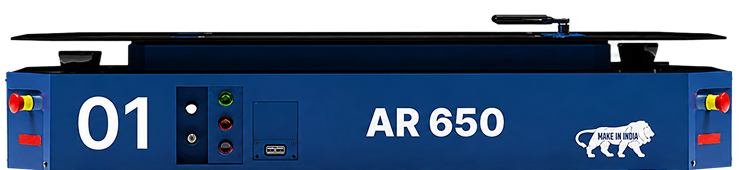
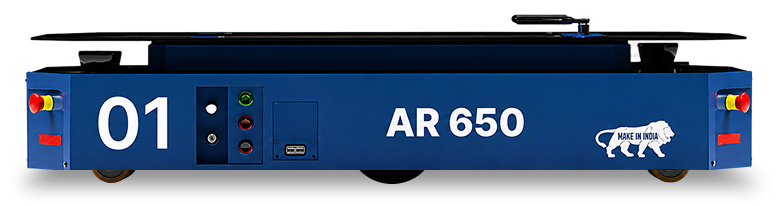
refactor(ui): clean up buttons, accordions and fix states
- Remove hardcoded background colors from ArrowButton instances across all pages and components
- Fix the custom background detection regex for ArrowButton to not match bg variant classes
- Add cursor-pointer to the base ArrowButton styles
- Refactor ProductAccordionRows and ProductFaqAccordion to improve accessibility, toggle logic, and visual styling
- Swap Plus/Minus icons for ChevronDownIcon in the FAQ accordion
- Fix accordion cursor states to show default when active, pointer otherwise
- Add/update the AR650 series product image

diff --git a/app/components/robots/ProductFaqAccordion.tsx b/app/components/robots/ProductFaqAccordion.tsx
@@ -1,14 +1,8 @@
 "use client";
 
 import { useState } from "react";
-import { Minus, Plus } from "lucide-react";
+import { ChevronDownIcon } from "lucide-react";
 import { cn } from "@/lib/utils";
-import {
-  Accordion,
-  AccordionContent,
-  AccordionItem,
-  AccordionTrigger,
-} from "@/components/ui/accordion";
 
 type ProductFaq = {
   question: string;
@@ -16,53 +10,64 @@ type ProductFaq = {
 };
 
 export function ProductFaqAccordion({ items }: { items: ProductFaq[] }) {
-  const [value, setValue] = useState<string[]>(["faq-0"]);
-  const activeValue = value[0] ?? "";
+  const [activeIndex, setActiveIndex] = useState<number>(0);
 
   return (
-    <Accordion
-      value={value}
-      onValueChange={(nextValue) => {
-        setValue(Array.isArray(nextValue) ? nextValue.slice(0, 1) : []);
-      }}
-      className="w-full flex flex-col gap-4"
-    >
+    <div className="w-full flex flex-col gap-4">
       {items.map((item, index) => {
-        const itemValue = `faq-${index}`;
-        const isOpen = activeValue === itemValue;
+        const isOpen = activeIndex === index;
 
         return (
-          <AccordionItem
+          <article
             key={item.question}
-            value={itemValue}
             className={cn(
-              "overflow-hidden border-0 border-transparent transition-colors duration-300 [&:not(:last-child)]:border-b-0",
+              "overflow-hidden border-0 border-transparent transition-colors duration-300",
               isOpen ? "rounded-xl bg-[#f1f1f1]" : "bg-transparent",
             )}
           >
-            <AccordionTrigger className="cursor-pointer items-center gap-4 rounded-xl px-3 py-3 text-left hover:no-underline focus-visible:ring-[#005ead]/25 md:gap-4 md:px-6 md:py-3 **:data-[slot=accordion-trigger-icon]:hidden">
+            <button
+              type="button"
+              onClick={() => {
+                if (activeIndex === index) return;
+                setActiveIndex(index);
+              }}
+              aria-expanded={isOpen}
+              className={cn(
+                "group flex w-full items-center justify-between gap-4 rounded-xl px-3 py-3 text-left outline-none transition hover:no-underline focus-visible:ring-3 focus-visible:ring-[#005ead]/25 md:gap-4 md:px-6 md:py-3",
+                isOpen ? "cursor-default" : "cursor-pointer"
+              )}
+            >
               <span className="text-sm font-semibold leading-5 text-[#3a3a3a] md:text-[18px] md:leading-6">
                 {item.question}
               </span>
-              <span
-                className="ml-auto grid size-6 shrink-0 place-items-center text-[#3a3a3a]"
+              <ChevronDownIcon
                 aria-hidden="true"
-              >
-                {isOpen ? (
-                  <Minus className="size-5" strokeWidth={2} />
-                ) : (
-                  <Plus className="size-5" strokeWidth={2} />
+                className={cn(
+                  "size-5 shrink-0 text-[#3a3a3a] transition-opacity duration-300",
+                  isOpen ? "opacity-0 pointer-events-none" : "opacity-100",
                 )}
-              </span>
-            </AccordionTrigger>
-            <AccordionContent className="px-3 pb-3 md:px-6">
-              <p className="max-w-[760px] pt-2.5 text-[12px] leading-[18px] text-[#222228] md:text-base md:leading-6">
-                {item.answer}
-              </p>
-            </AccordionContent>
-          </AccordionItem>
+                strokeWidth={2}
+              />
+            </button>
+            <div
+              className={cn(
+                "grid transition-[grid-template-rows,opacity] duration-300 ease-out",
+                isOpen
+                  ? "grid-rows-[1fr] opacity-100"
+                  : "grid-rows-[0fr] opacity-0",
+              )}
+            >
+              <div className="overflow-hidden">
+                <div className="px-3 pb-3 md:px-6">
+                  <p className="max-w-[760px] pt-2.5 text-[12px] leading-[18px] text-[#222228] md:text-base md:leading-6">
+                    {item.answer}
+                  </p>
+                </div>
+              </div>
+            </div>
+          </article>
         );
       })}
-    </Accordion>
+    </div>
   );
 }

diff --git a/app/components/product-detail/sections/ProductAccordionRows.tsx b/app/components/product-detail/sections/ProductAccordionRows.tsx
@@ -46,9 +46,15 @@ export function ProductAccordionRows({
           >
             <button
               type="button"
-              className="flex w-full cursor-pointer items-center justify-between gap-4 text-left"
+              className={cn(
+                "flex w-full items-center justify-between gap-4 text-left",
+                isOpen ? "cursor-default" : "cursor-pointer"
+              )}
               aria-expanded={isOpen}
-              onClick={() => onActiveChange(index)}
+              onClick={() => {
+                if (activeIndex === index) return;
+                onActiveChange(index);
+              }}
             >
               <h3
                 className={cn(
@@ -61,9 +67,10 @@ export function ProductAccordionRows({
               <ChevronDown
                 aria-hidden="true"
                 className={cn(
-                  "size-4 shrink-0 transition-transform duration-300",
-                  isOpen && "rotate-180",
+                  "size-5 shrink-0 text-[#011f40] transition-opacity duration-300",
+                  isOpen ? "opacity-0 pointer-events-none" : "opacity-100",
                 )}
+                strokeWidth={2}
               />
             </button>
             <div

diff --git a/app/components/home/SectionPrimitives.tsx b/app/components/home/SectionPrimitives.tsx
@@ -25,7 +25,8 @@ export function ArrowButton({
 }) {
   const Component = as || (asButton ? "button" : Link);
 
-  const hasCustomBg = className.includes("bg-") || className.includes("bg-[");
+  // Only treat a bare bg- class (not a hover:/focus:/etc. variant) as a custom background
+  const hasCustomBg = /(?<![a-z]:)bg-/.test(className);
   
   let colorClasses = "";
   if (variant === "solid" && !hasCustomBg) {
@@ -42,7 +43,7 @@ export function ArrowButton({
     ? "h-10 px-4 gap-3 rounded-sm" 
     : "gap-2"; // for ghost
 
-  const sharedClassName = `relative z-10 group/btn inline-flex items-center text-[14px] font-medium uppercase tracking-wide transition ${baseClasses} ${colorClasses} ${className}`
+  const sharedClassName = `relative z-10 group/btn cursor-pointer inline-flex items-center text-[14px] font-medium uppercase tracking-wide transition ${baseClasses} ${colorClasses} ${className}`
     .replace(/\s+/g, " ")
     .trim();
 

diff --git a/app/software-solutions/TabbedCapabilities.tsx b/app/software-solutions/TabbedCapabilities.tsx
@@ -223,7 +223,9 @@ function AccordionList({
               type="button"
               onClick={() => handleSelect(index)}
               aria-expanded={isActive}
-              className="flex w-full cursor-pointer items-center justify-between gap-4 text-left outline-none transition focus-visible:ring-3 focus-visible:ring-[#005ead]/30"
+              className={`flex w-full items-center justify-between gap-4 text-left outline-none transition focus-visible:ring-3 focus-visible:ring-[#005ead]/30 ${
+                isActive ? "cursor-default" : "cursor-pointer"
+              }`}
             >
               <span className="text-base font-semibold leading-5 text-[#005ead] md:text-xl md:leading-7">
                 {item.title}

diff --git a/app/software-solutions/page.tsx b/app/software-solutions/page.tsx
@@ -381,7 +381,7 @@ function SoftwareHero() {
           </p>
           <ArrowButton
             target="mailto:sales@anscer.com"
-            className="mt-8 h-[46px] bg-brand-blue px-5"
+            className="mt-8 h-[46px] px-5"
           >
             Request demo
           </ArrowButton>
@@ -806,7 +806,7 @@ function SoftwareCta() {
         </p>
         <ArrowButton
           target="mailto:sales@anscer.com"
-          className="h-[46px] bg-[#005ead] px-5 hover:bg-[#005ead]/90"
+          className="h-[46px] px-5"
         >
           Book a demo
         </ArrowButton>

diff --git a/app/components/series/SeriesPage.tsx b/app/components/series/SeriesPage.tsx
@@ -78,7 +78,7 @@ function SeriesHero({ data }: { data: SeriesPageData }) {
           <ArrowButton
             as="a"
             href="#modals"
-            className="mt-7 h-11 font-bold rounded-[3px] px-5 hover:bg-[#0671cc]"
+            className="mt-7 h-11 font-bold rounded-[3px] px-5"
           >
             Explore
           </ArrowButton>

diff --git a/app/components/robots/ProductsCta.tsx b/app/components/robots/ProductsCta.tsx
@@ -26,7 +26,7 @@ export function ProductsCta() {
         </p>
         <ArrowButton
           target="/contact-us"
-          className="mt-8 h-11 bg-[#015EAD] px-5 hover:bg-[#046bc5]"
+          className="mt-8 h-11 px-5"
         >
           Talk to our experts
         </ArrowButton>
